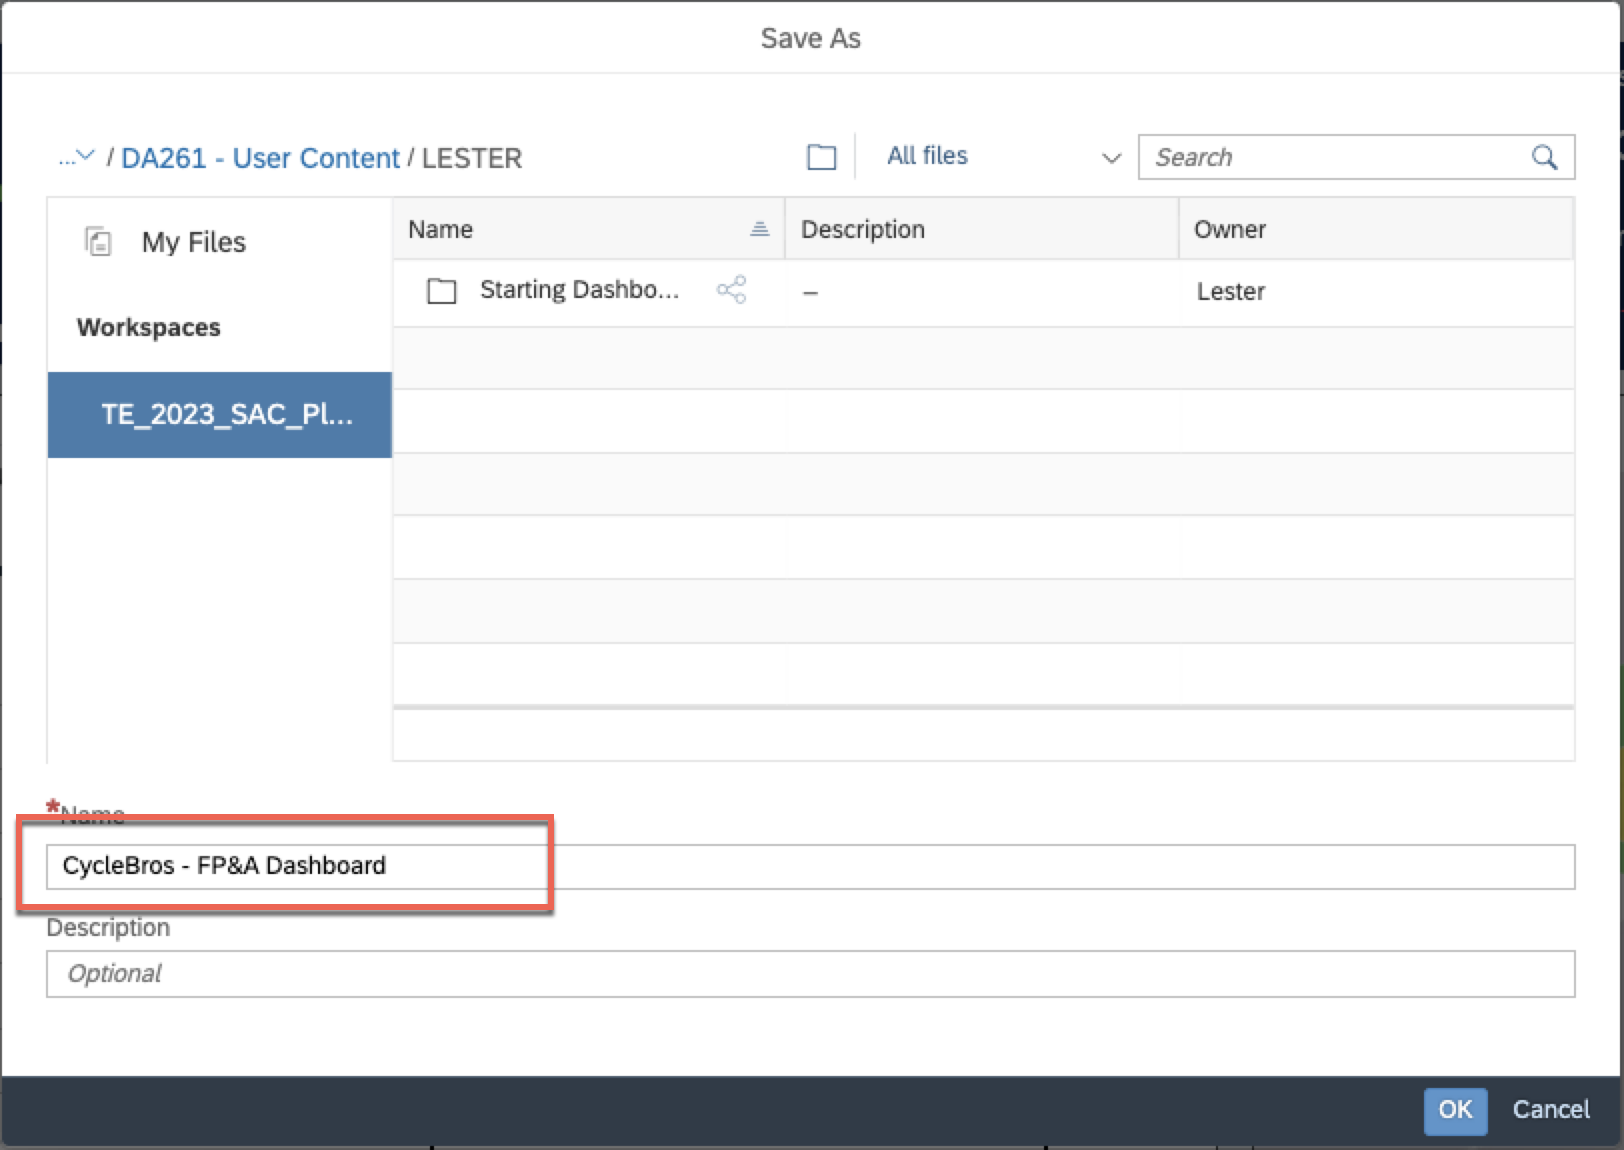
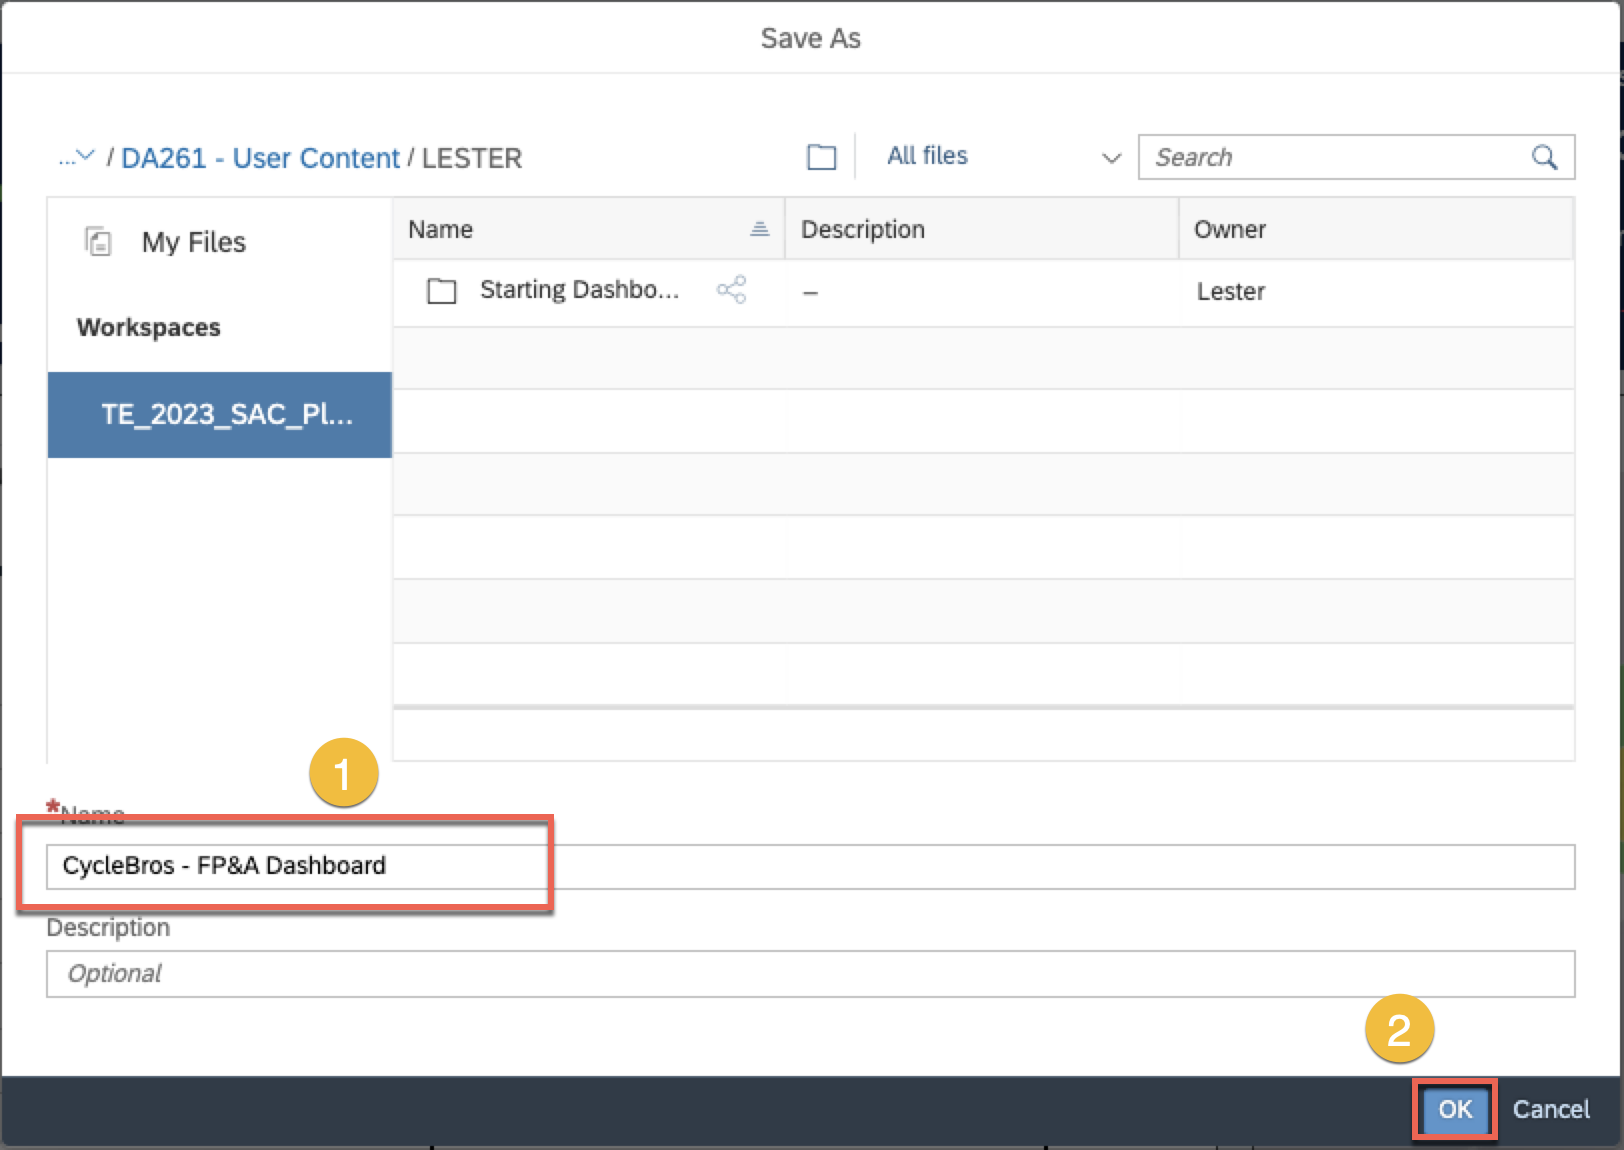
r

Changed region(s): [[0.8313, 0.8522, 0.9236, 1.0], [0.1847, 0.6391, 0.2463, 0.7]]

diff --git a/exercises/GettingStarted/README.md b/exercises/GettingStarted/README.md
@@ -90,7 +90,7 @@ settings and so on.
 
 <img src="./images/image7_3.png"/>
 
-13. Once the dashboard is open select the **Save As** from the File menu
+13. Once the dashboard is open select the **Save As...** from the File menu
 
 <img src="./images/image8.png"/>
 
@@ -99,7 +99,7 @@ settings and so on.
 
 <img src="./images/image9.png"/>
 
-15. Change the name of the file to **CycleBros -- FP&A Dashboard** and
+15. Change the name of the file to **CycleBros - FP&A Dashboard** and
     click **OK**
 
 <img src="./images/image10.png" style="width:724px;height:494px;"/>
